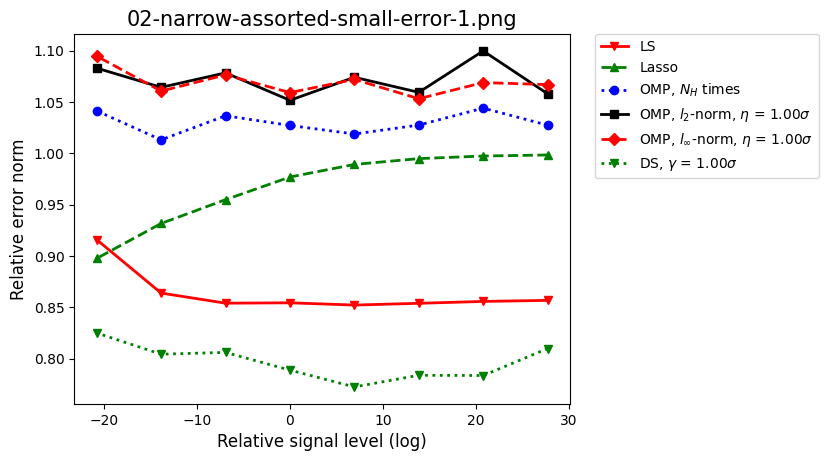
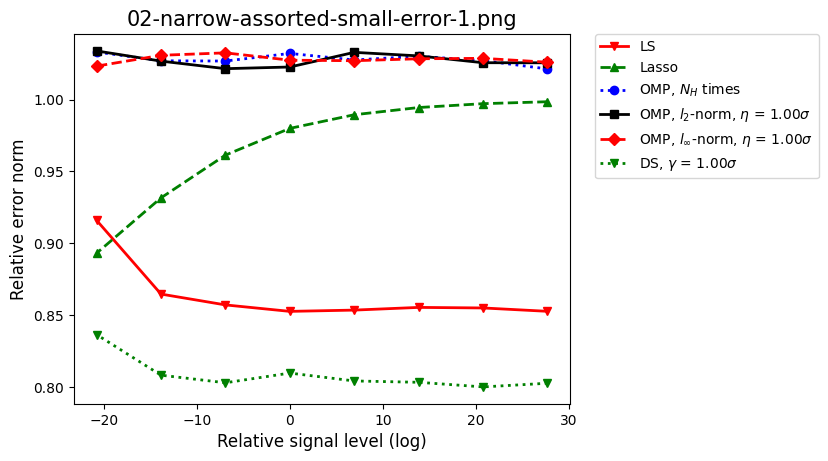
Update figures

diff --git a/treatise/1_introduction.tex b/treatise/1_introduction.tex
@@ -25,12 +25,12 @@ Generally speaking, it is a technique for reconstructing a underdetermined linea
 \blank [big]
 \externalfigure [compressive-sensing.png] [wfactor=fit, hfactor=fit]
 
-The figure above shows the generic situation in which a signal is ``crowded'' in the given basis, but is ``sparse'' in another basis.
+The figure above shows the generic situation in which a signal is ``crowded'' in the given basis, but is ``sparse'' in transformed basis.
 (Wikimedia Commons, \Uurrll {https://commons.wikimedia.org/wiki/File:Orthogonal_Matching_Pursuit.gif})
-In the given basis, more measurements are required to recover the signal, while fewer suffice in the sparse basis.
-But, even if we are guaranteed a sparse basis exists, it is still a nontrivial undertaking to construct it.
+More measurements are required to recover the signal in the former, while fewer suffice in the latter basis.
+But, even if we are guaranteed latter basis exists, it is still a nontrivial undertaking to construct it.
 
-A series of investigation started when Candès and Tao \cite [Can05].
+Candès and Tao \cite [Can05] first embarked a series of investigation on the problem.
 Let us say the number of model parameters \m {N_p \in \MB {N}} is much larger than the number of measurements \m {N_m \in \MB {N}}, that is,
 %
 \DispNum {N:p:Nm:Nm} {
@@ -60,10 +60,10 @@ with
 \NC \Nm {\MS {A}} \leq \NC s. \NR
 }
 
-Candès and Tao showed that (\It {ibid}), in the noiseless case, a \m {\ell_1}-minimization program covers the \m {N_m}-dimensional signal, with fewer than \m {N_p} measurement, under overwhelming probability.
+Candès and Tao showed that, in the noiseless case, a \m {\ell_1}-minimization program covers the \m {N_m}-dimensional signal, with fewer than \m {N_p} measurement, under overwhelming probability.
 
 As a practical example, it may be desirable that a camera equipped with few sensors may obtain a lower resolution image, to save computation and storage, and recover the image later, rather than taking a high definition photo at first, and compressing the image later.
-Such simplification is particularly important in medical imaging, since it is not only expensive, but also harmful to the body, to take too many images, but the imaging accuracy may be critical to the diagnosis (\It {ibid}).
+Such simplification is particularly important in medical imaging, since it is not only expensive, but also harmful to the body, to take too many images, but the imaging accuracy may be critical to the diagnosis \cite [CaT07].
 
 \stopsection
 
@@ -208,44 +208,40 @@ where \m {\VNm {\M {Q} ^\ddagger} _1} denotes the operator norm.
 \stopitemize
 }
 %
-Here \m {\V {r}} can be thought of as the estimated noise, and \m {S} the number of estimated nonzero-position of \m {\V {x}}, which \cite [CaT07] calls support (here we have slightly abused the usage of subscript to indicate component indices).
+Here \m {\V {r}} can be thought of as the estimated noise, and \m {S} the number of estimated nonzero components of \m {\V {x}}, which \cite [CaT07] calls support (here we have slightly abused the usage of subscript to indicate component indices).
 From Tropp and Gilbert \cite [TrG07a], the probability that OMP recovers \m {\V {x}} completely is overwhelming, providing a perfomance guarantee.
 It is instructive to note that the matrix consisting of a collection of columns that likely spans \m {\V {x}} plays the role of the sensing matrix in the previous section.
 
-Ever since, OMP has since been applied in a variety of ways.
-Alkhateeb et.\ al.\ \cite [AEL14] proposes an adaptive algorithm with a beam codebook for quantized angles of arrival and departure.
-Alkhateeb, Leus, and Heath Jr.\ \cite [ALH15] discusses the trade-off between number of OMP measurement and accuracy in OMP, applied on an all-phase-shifter beamformers, with quantized, non-uniform, predetermined angles.
-Gao et.\ al.\ \cite [LGC16] proposed a jointly reconstruction, with a modified OMP, of several high-dimensional sparse signals with restriction on nonzero-positions.
-Hu, Wang, and He \cite [HWH13] applies OMP to estimate quantized path delay of each OFDM subcarrier, assuming the channel gain in each path is stationary.
-Lee, Gil, and Lee \cite [LGL16] consider a hybrid system similar to this paper, with the effective beamformer considered as sensing matrix, where they specially designed a set of quantized angles, and in their simulations permuted DFT matrix is used in analog stage.
+OMP has since been applied widely in the literature.
+Alkhateeb et.\ al.\ \cite [AEL14] proposed an adaptive algorithm with a beam codebook for quantized angles of arrival and departure.
+Alkhateeb, Leus, and Heath Jr.\ \cite [ALH15] discussed the trade-off between number of OMP measurement and accuracy in OMP, applied on an all-phase-shifter beamformers, with quantized, non-uniform, predetermined angles.
+Gao et.\ al.\ \cite [LGC16] proposed a jointly reconstruction, with a modified OMP, of several high-dimensional sparse signals with restriction on nonzero components.
+Hu, Wang, and He \cite [HWH13] applied OMP to estimate quantized path delay of OFDM subcarriers, assuming the channel gain in each path is stationary.
+Lee, Gil, and Lee \cite [LGL16] considered a hybrid system, with the effective beamformer serving as sensing matrix, where set of quantized angles was specially designed, and permuted DFT matrix is used.
 
-Some further attempts include Manoj and Kannu \cite [MaK17], which formulate the sparse condition as overlapping block in the reconstructed signal, and encode possible blocks.
-Gurbuz, Yapici, and Guvenc \cite [GYG18] introduce perturbation of the quantized set of angles, on which the sensing matrix is based.
-Most recently, Panayirci et.\ al.\ \cite [PAU19] put forward a more thorough treatment, where in addition to application of OMP, they use a first stage of max-likelihood estimation of model parameters, and a second stage of maximum-a-posteriori estimation of channel gains.
+Some further attempts include Manoj and Kannu \cite [MaK17], who formulated the sparse condition on submatrices of the signal for successful reconstruction.
+Gurbuz, Yapici, and Guvenc \cite [GYG18] introduced perturbation of the quantized set of angles, on which the sensing matrix is based.
+Panayirci et.\ al.\ \cite [PAU19] suggested, in addition to application of OMP, a concatenation of max-likelihood estimation of model parameters, and maximum-a-posteriori estimation of channel gains.
 
-Performance guarantee of OMP is also studied, by refining or proposing different conditions.
-Cai, Wang, and Xu \cite [CWX10], under assumption on low coherence of columns of matrices, give new bound on OMP.
-Coherence-based assumptions, instead of almost-unitarity, make the condition easier to verify.
-Cai and Wang \cite [CaW11] extends the investigation to DS and other convex programs for sparse recovery, and Ben-Haim et.\ al.\ \cite [BEE10] follow up and refine their bounds, and conclude that OMP is better for low-SNR scenario, and DS is better for high-SNR.
+Performance guarantee of OMP is also studied on various conditions.
+Cai, Wang, and Xu \cite [CWX10], under assumption of low coherence of columns of matrices, instead of almost-unitarity, gave new bound on OMP.
+Cai and Wang \cite [CaW11] extended the study to DS and other convex programs for sparse recovery, and Ben-Haim et.\ al.\ \cite [BEE10] followed up and refined their bounds, concluding that OMP is better for low-SNR scenario, and DS is better for high-SNR.
 
 \stopsection
 
 \startsection [title={Contribution}]
 
 From above we note that work on channel estimation seems to favored OMP for its low complexity.
-One notable drawback of OMP, as pointed out by \cite [GYG18], is that the quantized angle of the sensing matrix used dos not necessarily match the true ones.
-Indeed, in the uniform linear array setting, DFT matrix can be used as sensing matrix, but the true angle of arrival and departure is often slightly off.
-Meanwhile, as the nature of OMP is greedy, and it is dubious whether it achieves optimality.
-In addition, the assumption that the channel matrix is sparse, at least, warrant justification.
+One notable difficulty in channel estimation is that, in the uniform linear array setting, the quantized angle of arrival and departure, which the sensing matrix is based on, does not necessarily match the true ones \cite [GYG18].
+Also, as the nature of OMP is greedy, and it is not clear whether it achieves optimality, and the assumption that the channel matrix is sparse warrant justification too.
 
-In this treatise, we argue that DS is worth trying as an alternative.
-As the next section shows, the effective beamformer serves readily as the sensing matrix with RIP.
+In this treatise, we suggest DS as an alternative.
+Chapter 2 shows, the effective beamformer may serve as the sensing matrix with RIP.
 Assuming uniform linear array, the sparsity may be exploited, and a convex program analogous to DS can be used for estimation, which ensures several desirable properties.
-Along the lines of \cite [CaT07], we give a bound on expected square error, expressed in terms of on the sparsity and the number of paths, which will surely faciliate system design.
-We show that it holds under an overwhelming probability, which is also bounded quantitatively.
-
-Moreover, we illustrate that the convex program is equivalent to a linear program, for which several efficient algorithms are known.
-In view of numerical results, DS is often superior to OMP among other methods, at the cost of higher complexity.
+In chapter 3, along the lines of \cite [CaT07], we give a bound on expected square error, expressed in terms of the sparsity and the number of paths.
+We claim that the bound holds for overwhelming probability.
+In chapter 4, we remark that DS can be written as an linear program, for which efficient algorithms are known.
+We present numerical results, which show that DS is often superior to OMP among other methods, which is achieved at the cost of higher complexity.
 
 
 \stopsection

diff --git a/treatise/4_simulation.tex b/treatise/4_simulation.tex
@@ -377,43 +377,45 @@ On the other hand, if they are too big, the steps become imprecise and the progr
 
 \startsubsection [title={Assorted Plots}]
 
-In the following, we plot the reciprocal of noise level vs relative error norm, for \m {N_H = 8, 12, 16, 20, 24}, respectively.
-Plots 1 to 5 have \m {N_H = 3 N_Y}, and the plots 6 to 10 has \m {N_H = 2 N_Y}.
+In the following, we plot the reciprocal of noise level vs relative error norm, for \m {N_H = 8, 12, 16, 20, 24} (from ``very small'' to ``very big''), respectively.
+Plots 1 to 5 have \m {N_H = 3 N_Y} (``narrow''), and the plots 6 to 10 has \m {N_H = 2 N_Y} (``wide'').
 %
+Assorted, \m {N_H = 3 N_Y, N_H = 12}, error:
 \blank [big]
-%\externalfigure [assorted-wide-very-small-error.png] [wfactor=fit, hfactor=fit]
+\externalfigure [assorted-wide-small-error.png] [wfactor=fit, hfactor=fit]
 %
+Assorted, \m {N_H = 3 N_Y, N_H = 16}, error:
 \blank [big]
-%\externalfigure [assorted-wide-small-error.png] [wfactor=fit, hfactor=fit]
+\externalfigure [assorted-wide-medium-error.png] [wfactor=fit, hfactor=fit]
 %
-\blank [big]
-%\externalfigure [assorted-wide-medium-error.png] [wfactor=fit, hfactor=fit]
-%
+Assorted, \m {N_H = 3 N_Y, N_H = 20}, error:
 \blank [big]
 \externalfigure [assorted-wide-big-error.png] [wfactor=fit, hfactor=fit]
 %
+Assorted, \m {N_H = 3 N_Y, N_H = 24}, error:
 \blank [big]
 \externalfigure [assorted-wide-very-big-error.png] [wfactor=fit, hfactor=fit]
 %
-\blank [big]
-%\externalfigure [assorted-narrow-very-small-error.png] [wfactor=fit, hfactor=fit]
-%
+Assorted, \m {N_H = 2 N_Y, N_H = 12}, error:
 \blank [big]
 \externalfigure [assorted-narrow-small-error.png] [wfactor=fit, hfactor=fit]
 %
+Assorted, \m {N_H = 2 N_Y, N_H = 16}, error:
 \blank [big]
-%\externalfigure [assorted-narrow-medium-error.png] [wfactor=fit, hfactor=fit]
+\externalfigure [assorted-narrow-medium-error.png] [wfactor=fit, hfactor=fit]
 %
+Assorted, \m {N_H = 2 N_Y, N_H = 20}, error:
 \blank [big]
 \externalfigure [assorted-narrow-big-error.png] [wfactor=fit, hfactor=fit]
 %
+Assorted, \m {N_H = 2 N_Y, N_H = 24}, error:
 \blank [big]
 \externalfigure [assorted-narrow-very-big-error.png] [wfactor=fit, hfactor=fit]
 
-As of the plot of time taken in minutes, we give only one of \m {N_H = 12}, as an example.
+As for the plot of time taken in minutes, we give only one example of \m {N_H = 16}.
 %
 \blank [big]
-\externalfigure [assorted-small-time.png] [wfactor=fit, hfactor=fit]
+\externalfigure [assorted-medium-time.png] [wfactor=fit, hfactor=fit]
 
 \stopsubsection
 
@@ -421,22 +423,27 @@ As of the plot of time taken in minutes, we give only one of \m {N_H = 12}, as a
 
 Again, we plot the reciprocal of noise level vs relative error norm, for \m {N_H = 8, 12, 16, 20, 24}, respectively, and \m {N_H = 3 N_Y} for each of them.
 Here, the bound \m {\T {\chi}} is shown.
-
 %
-\blank [big]
-%\externalfigure [ddss-very-small-error.png] [wfactor=fit, hfactor=fit]
-%
+Assorted, \m {N_H = 3 N_Y, N_H = 12}, error:
 \blank [big]
 \externalfigure [ddss-small-error.png] [wfactor=fit, hfactor=fit]
 %
+Assorted, \m {N_H = 3 N_Y, N_H = 16}, error:
 \blank [big]
 \externalfigure [ddss-medium-error.png] [wfactor=fit, hfactor=fit]
 %
+Assorted, \m {N_H = 3 N_Y, N_H = 20}, error:
 \blank [big]
 \externalfigure [ddss-big-error.png] [wfactor=fit, hfactor=fit]
 %
+Assorted, \m {N_H = 3 N_Y, N_H = 24}, error:
 \blank [big]
 \externalfigure [ddss-very-big-error.png] [wfactor=fit, hfactor=fit]
+%
+As for the plot of time taken in minutes, we give only one example of \m {N_H = 16}.
+%
+\blank [big]
+\externalfigure [ddss-medium-time.png] [wfactor=fit, hfactor=fit]
 
 \stopsubsection
 
@@ -445,20 +452,26 @@ Here, the bound \m {\T {\chi}} is shown.
 Again, we plot the reciprocal of noise level vs relative error norm, for \m {N_H = 8, 12, 16, 20, 24}, respectively, and \m {N_H = 3 N_Y} for each of them.
 
 %
+Assorted, \m {N_H = 3 N_Y, N_H = 24}, error:
 \blank [big]
-%\externalfigure [oommpp-very-small-error.png] [wfactor=fit, hfactor=fit]
+\externalfigure [oommpp-small-error.png] [wfactor=fit, hfactor=fit]
 %
-\blank [big]
-%\externalfigure [oommpp-small-error.png] [wfactor=fit, hfactor=fit]
-%
+Assorted, \m {N_H = 3 N_Y, N_H = 24}, error:
 \blank [big]
 \externalfigure [oommpp-medium-error.png] [wfactor=fit, hfactor=fit]
 %
+Assorted, \m {N_H = 3 N_Y, N_H = 24}, error:
 \blank [big]
 \externalfigure [oommpp-big-error.png] [wfactor=fit, hfactor=fit]
 %
+Assorted, \m {N_H = 3 N_Y, N_H = 24}, error:
 \blank [big]
 \externalfigure [oommpp-very-big-error.png] [wfactor=fit, hfactor=fit]
+%
+As for the plot of time taken in minutes, we give only one example of \m {N_H = 16}.
+%
+\blank [big]
+\externalfigure [oommpp-medium-time.png] [wfactor=fit, hfactor=fit]
 
 \stopsubsection
 
@@ -472,14 +485,16 @@ Varying thresholds of DS (namely \m {\g_{\Rm {DS}}}) and OMP (namely \m {\h_{\Rm
 Nevertheless, it appears \m {\g_{\Rm {DS}}} is usually best chosen in the order of magnitude of \m {\s}, which is intuitive.
 Sometimes the iteration stablizes much earlier than is constrained by maximum iteration number.
 
-Our \m {\T {\chi}}, unfortunately, does not agree the simulated error of DS, and the matter remains to be investigated in the future.
-As pointed above, the simulated error is very constant around 1, so \m {\T {\chi}} is an overestimation when \m {\s} is high and underestimation when \m {\s} is low.
-A possible explanation is that the non-sparsity of \m {\V {g}} undermines the analysis in chapter 3 (despite our effort to estimate), and thus the validity of performance guarantee of DS becomes more dubious.
+Our \m {\T {\chi}}, 
+It is not clear, unfortunately, why the simulated error \m {\T {\chi}} does not agree the simulated error \m {\chi} of DS, and why \m {\chi} does not appear to increase significantly as \m {\s} increases.
+The matter remains to be investigated in the future.
+As shown above, the \m {\chi} is very constant around 1, thus \m {\T {\chi}} is an overestimation when \m {\s} is high and underestimation when \m {\s} is low.
+A possible explanation is that the non-sparsity of \m {\V {g}} undermines the analysis in chapter 3, despite our attempts.
 
 \blank [big]
 \externalfigure [scatter-ddss-failure.png] [wfactor=300]
 
-To give some idea when DS works or not, the figure above illustrates a case where DS failed.
+To give some idea of the case that DS works or fails, the figure above illustrates a case where DS failed.
 We see that the soft thresholding policy does rule out those entries which are too small and gives a reasonable guess of the positions of non-zero entries.
 Subsequent application of DS on the wrong index set fails, as a result.
 

diff --git a/treatise/5_conclusion.tex b/treatise/5_conclusion.tex
@@ -1,26 +1,21 @@
 
 \startchapter [title={Conclusion}]
 
-This article addresses the problem of effective and estimation of the millimeter wave channel by exploiting its sparsity.
-We motivated the problem, and provided a rather broad survey of recent literature.
-This article adopts The Dantzig Selector (DS) rather than Orthogonal Matching Pursuit (OMP), like many of past literature, as the estimation algorithm.
-Rather than exploiting the sparsity of space domain representation as existing literature does, we proceed the estimation algorithm in the spatial frequency domain.
-The technique is surely inspiring to future work, as many bounds are ready to be obtained once we change the physical model of the channel.
-In addition, we have, as a secondary product, derived the generalization of DS for complex vectors.
-
+The treatise addresses the problem of effective estimation of the millimeter wave channel by exploiting its sparsity.
+Towards that end, we try the Dantzig Selector (DS) rather than Orthogonal Matching Pursuit (OMP), which is a more common choice, as the estimation algorithm.
+We proceed by exploiting the sparsity of spatial frequency domain, rather than 
+the spatial domain itself, and suggested the generalization of DS for complex vectors work in present case.
 Moreover, assuming the virtual channel model according to uniform linear array response, we managed to prove explicitly, following the spirit of Candès and Tao \cite [CaT07], that for overwhelming probability, the expected square error is bounded.
 
 We also point out that DS may be cast into an LP, and simulation is done.
 DS is steadily more accurate than all other methods, while exhibiting rather high complexity.
-Unfortunately, the program is prone to give overflown output, and we have not investigated range of parameter extensive enough for more conclusions.
+Unfortunately, , and it remains to investigate why there is no obvious trend between the signal level and the relative error norm, and a wider range of parameter has to be tried for further conclusions.
+We also point out the Python package CVXPY sometimes gives overflown values.
 
-Considering analytical bounds, it can be not easy to give meaningful comparison of existent bounds for these algorithms, as their settings are somewhat different, which we ought to keep in mind.
-Indeed, DS requires a RIP matrix and performance is guaranteed in noisy observation (Cand\`es and Tao 2005, 2007), while RIP is not easily to justify rigorously, and its easy construction is even an open problem.
-On the other hand, as of OMP, besides the original justification of entrywise i.i.d.\ Gaussian sensing matrix (Tropp and Gilbert 2007a), there do not seem to be much analysis.
-and that (to add to complication) is still different from RIP.
-
-OMP trades off precision for time and space complexity, and for DS the other way around is true, hence we cannot say which one is universally better than the other.
-The investigation eloquently illustrates the fact that different problems requires different technique and algorihm within the current constraint, as is probably true in every discipline of engineering.
+One must be careful in giving meaningful comparison of existent analytic bounds for compressive sensing algorithms, as they might work in different settings.
+Indeed, DS requires a RIP matrix and performance is guaranteed in noisy observation \cite [CaT07], while RIP is not easily to justify rigorously, and its easy construction is even an open problem.
+OMP, on the other hand, requires only an entrywise i.i.d.\ Normal sensing matrix \cite [TrG07a], but much analysis remains to be done.
+OMP trades off precision for a lower time and space complexity, and for DS the other way around, and this eloquently illustrates that different technique suits different problems and constraints, as is true in every discipline of engineering.
 
 \stopchapter
 
